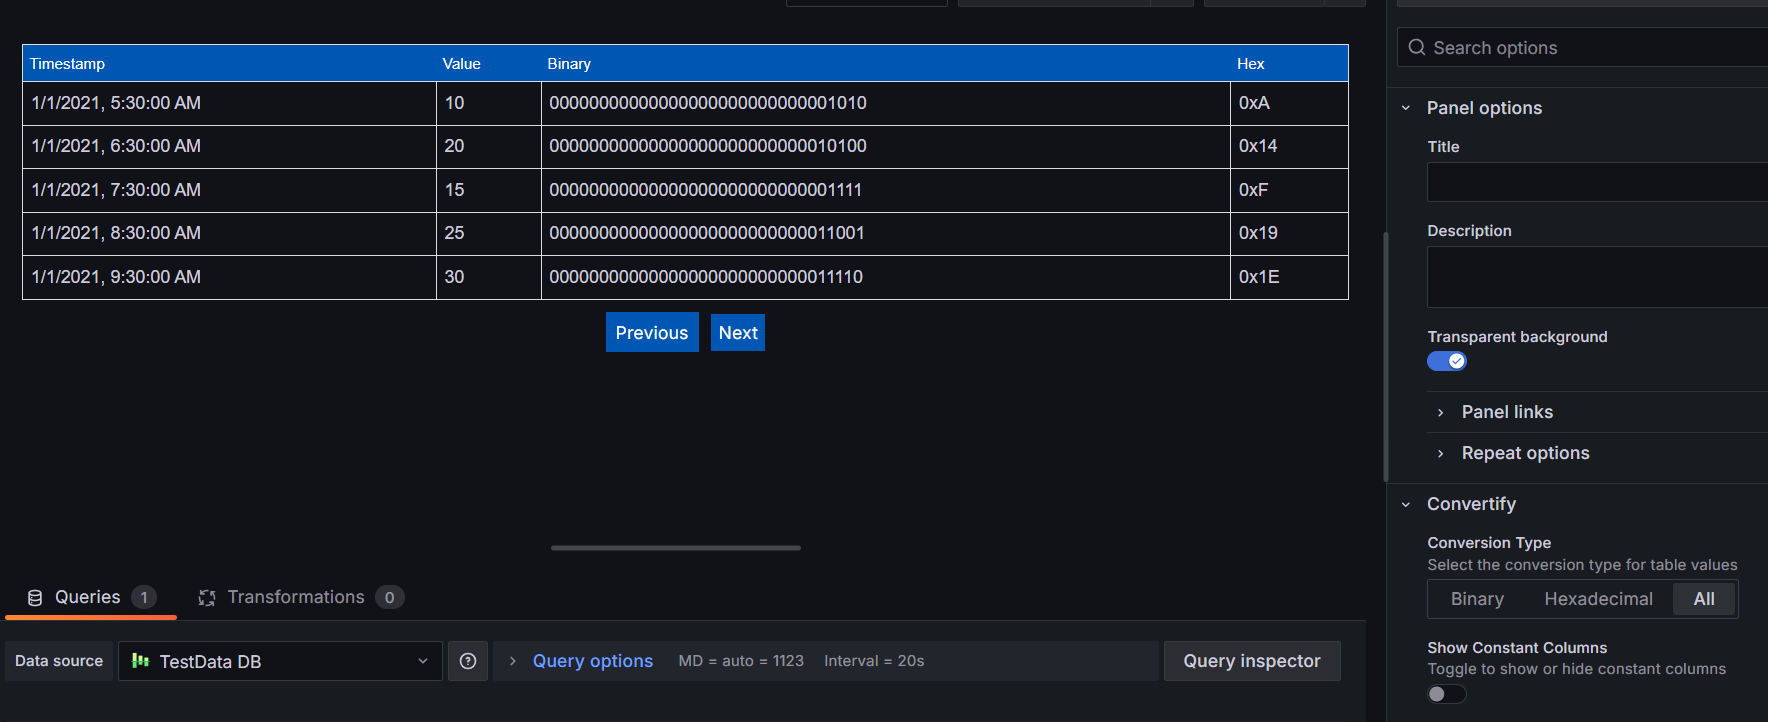
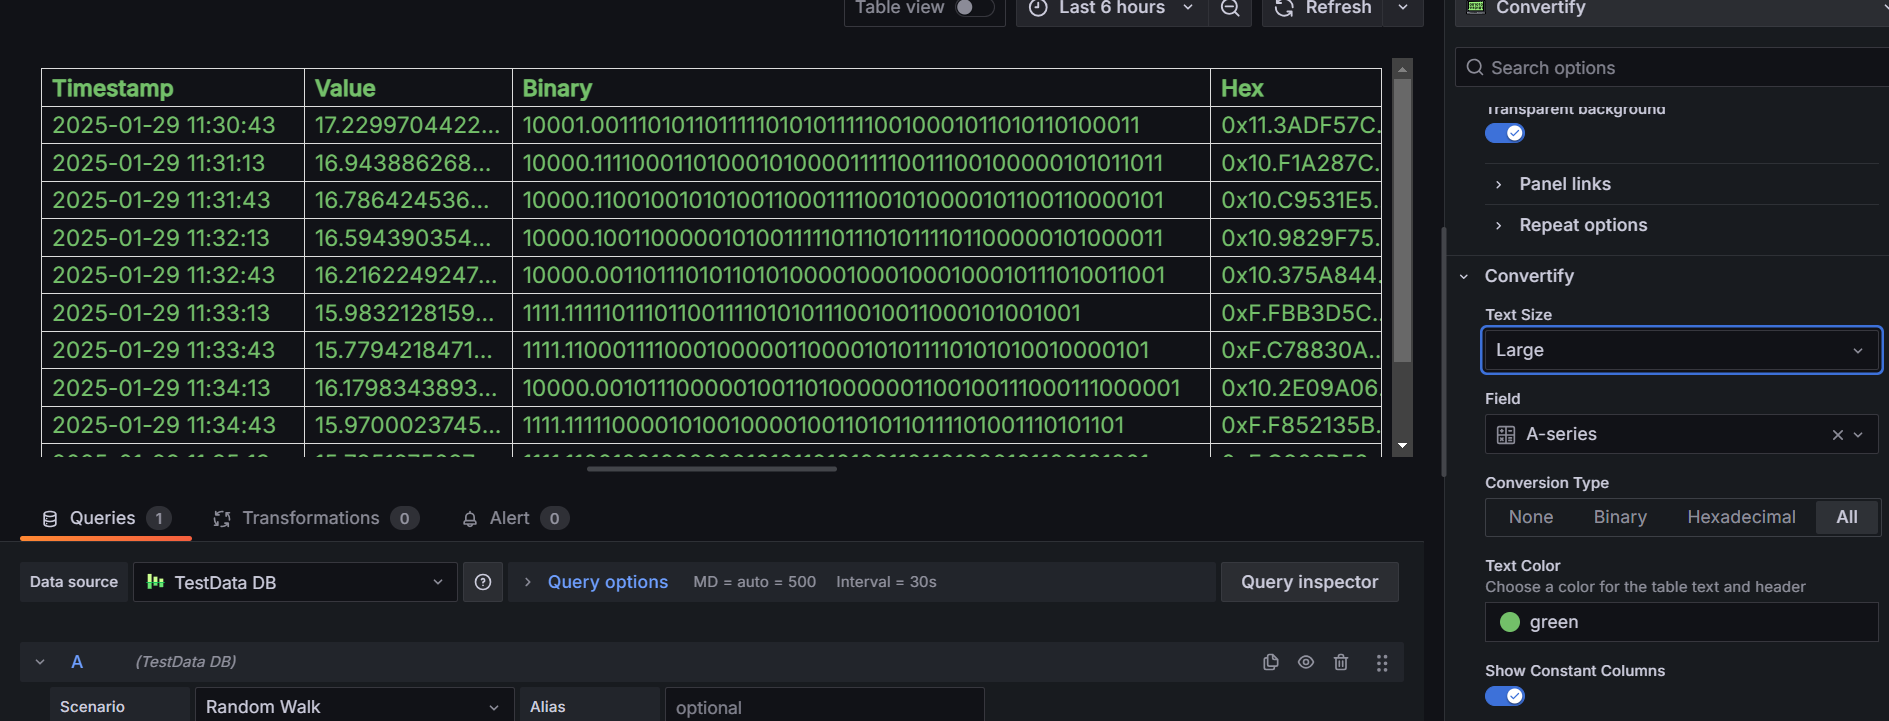
Updated files

diff --git a/src/module.ts b/src/module.ts
@@ -1,39 +1,48 @@
 import { PanelPlugin } from '@grafana/data';
-import { SimpleOptions } from './types';
 import { SimplePanel } from './components/SimplePanel';
+import { SimpleOptions } from './types';
 
 export const plugin = new PanelPlugin<SimpleOptions>(SimplePanel).setPanelOptions((builder) => {
   return builder
-    .addRadio({
-      path: 'conversionType',
-      name: 'Conversion Type',
-      description: 'Select the conversion type for table values',
-      defaultValue: 'binary',
+    .addSelect({
+      path: 'textSize',
+      name: 'Text Size',
+      defaultValue: 'medium',
       settings: {
         options: [
-          { value: 'binary', label: 'Binary' },
-          { value: 'hexadecimal', label: 'Hexadecimal' },
-          { value: 'decimal', label: 'Decimal' },
-          { value: 'all', label: 'All' },
+          { value: 'small', label: 'Small' },
+          { value: 'medium', label: 'Medium' },
+          { value: 'large', label: 'Large' },
         ],
       },
     })
-    .addBooleanSwitch({
-      path: 'enablePagination',
-      name: 'Enable Pagination',
-      description: 'Enable or disable pagination for the table',
-      defaultValue: true,
+    .addFieldNamePicker({
+      path: 'selectedField',
+      name: 'Field',
+      defaultValue: '',
     })
-    .addBooleanSwitch({
-      path: 'showConstantColumns',
-      name: 'Show Constant Columns',
-      description: 'Toggle to show or hide constant columns in the table',
-      defaultValue: true,
+    .addRadio({
+      path: 'conversionType',
+      name: 'Conversion Type',
+      defaultValue: 'all',
+      settings: {
+        options: [
+          { value: 'none', label: 'None' },
+          { value: 'binary', label: 'Binary' },
+          { value: 'hexadecimal', label: 'Hexadecimal' },
+          { value: 'all', label: 'All' },
+        ],
+      },
     })
     .addColorPicker({
       path: 'textColor',
       name: 'Text Color',
       description: 'Choose a color for the table text and header',
       defaultValue: 'white',
+    })
+    .addBooleanSwitch({
+      path: 'showConstantColumns',
+      name: 'Show Constant Columns',
+      defaultValue: true,
     });
 });

diff --git a/src/components/SimplePanel.tsx b/src/components/SimplePanel.tsx
@@ -52,6 +52,12 @@ export const SimplePanel: React.FC<Props> = ({ data, options, width, height }) =
   // Use theme.visualization.getColorByName to resolve theme colors
   const textColor = theme.visualization.getColorByName(options.textColor);
 
+  const textSizeMap = {
+    small: theme.typography.size.sm,
+    medium: theme.typography.size.md,
+    large: theme.typography.size.lg,
+  };
+
   const styles = useStyles2((theme) => ({
     container: css({
       width,
@@ -70,7 +76,7 @@ export const SimplePanel: React.FC<Props> = ({ data, options, width, height }) =
       padding: theme.spacing(1),
       backgroundColor: 'transparent',  // Transparent background
       color: textColor,  // Dynamic text color
-      fontSize: theme.typography.size.sm,
+      fontSize: textSizeMap[options.textSize],
       minWidth: '160px',
       textAlign: 'center',
     }),
@@ -78,6 +84,7 @@ export const SimplePanel: React.FC<Props> = ({ data, options, width, height }) =
       padding: theme.spacing(1),
       border: `1px solid ${textColor}`,
       color: textColor,  // Dynamic text color
+      fontSize: textSizeMap[options.textSize],
     }),
     button: css({
       padding: '5px 8px',
@@ -95,6 +102,7 @@ export const SimplePanel: React.FC<Props> = ({ data, options, width, height }) =
       '& .rdg-cell': {
         backgroundColor: 'transparent !important', // Make cell backgrounds transparent
         color: textColor,  // Dynamic text color
+        fontSize: textSizeMap[options.textSize],
       },
     }),
   }));

diff --git a/src/README.md b/src/README.md
@@ -2,25 +2,26 @@
 
 **Convertify** is a powerful panel plugin for Grafana designed to help visualize real-time data with detailed bit-level analysis. It integrates with Grafana's time-series data and transforms it into binary or hexadecimal representations. This plugin is perfect for monitoring and analyzing data with bitfield structures, such as industrial systems, IoT devices, or control systems.
 
-### Features
+## Features
 
 - **Real-time Data Visualization**: Visualizes time-series data from Grafana.
 - **Binary and Hexadecimal Conversion**: Convert numerical values into binary or hexadecimal formats.
 - **Bit-Level Representation**: Show bit-level status using predefined bitfields (e.g., Status, Stop, Emergency Stop).
-- **Column Filtering**: Apply dynamic filters to the columns and analyze data based on specific conditions.
 - **Pagination**: Data is displayed in pages, making it easy to navigate large datasets.
 - **Flexible Data Input**: Works with any time-series data with numerical values.
+- **Customizable Text Size**: Adjust text size for better readability.
+- **Dynamic Text Color**: Select text colors based on the Grafana theme.
 
-### How It Works
+## How It Works
 
-The panel works by transforming numerical values into binary or hexadecimal formats and displaying them in a table along with their corresponding bitfield values. 
+The panel works by transforming numerical values into binary or hexadecimal formats and displaying them in a table along with their corresponding bitfield values.
 
-**Key Concepts:**
+### Key Concepts:
 - **Binary Conversion**: Each numerical value is converted into a 32-bit binary representation.
 - **Hex Conversion**: The panel can also convert values into a hexadecimal format.
 - **Bitfields**: Each value is analyzed according to predefined bitfields (e.g., Status, Stop, Fault Stop), where each bit represents a specific status (set or clear).
 
-### Expected Data Format
+## Expected Data Format
 
 For the plugin to work, you need a time-series dataset that contains both time and numerical fields. Here's an example of the expected data:
 
@@ -31,33 +32,66 @@ For the plugin to work, you need a time-series dataset that contains both time a
 
 - **Time**: A field containing timestamp data (required).
 - **Value**: A numerical field representing the data to be visualized (required).
-  
-### Using the Plugin
 
-1. **Install the Plugin**: Download and install the Convertify panel from the Grafana plugin marketplace.
-2. **Add the Panel to a Dashboard**: Once installed, add the Convertify panel to your dashboard like any other panel.
-3. **Configure the Data Source**: Choose a data source that provides time-series data with numerical values.
-4. **Select Conversion Type**: Choose whether to visualize the data as binary, hexadecimal, or both.
-5. **Use Filters**: Apply filters to view data for specific bitfields.
-6. **Navigate through Pages**: Use the pagination buttons to navigate through large datasets.
+## Installation
 
-### Screenshots
+1. **Download the Plugin**: Clone the repository and install dependencies.
+   ```sh
+   git clone https://github.com/shabuddinshaik/monitorcloudops-convertify-panel.git
+   cd monitorcloudops-convertify-panel
+   yarn install
+   ```
+2. **Build the Plugin**:
+   ```sh
+   yarn build
+   ```
+3. **Deploy the Plugin**: Copy the built plugin into your Grafana plugins directory.
+   ```sh
+   cp -r dist /var/lib/grafana/plugins/convertify-panel
+   ```
+4. **Restart Grafana**:
+   ```sh
+   sudo systemctl restart grafana-server
+   ```
+5. **Enable the Plugin**: Go to Grafana settings and enable the Convertify panel.
 
-![Panel Screenshot 1] ![alt text](https://github.com/shabuddinshaik/monitorcloudops-convertify-panel/blob/main/src/img/screenshot1.png)
+## Using the Plugin
 
-![Panel Screenshot 2] ![alt text](https://github.com/shabuddinshaik/monitorcloudops-convertify-panel/blob/main/src/img/screenshot2.png)
+1. **Add the Panel to a Dashboard**: Once installed, add the Convertify panel to your dashboard like any other panel.
+2. **Configure the Data Source**: Choose a data source that provides time-series data with numerical values.
+3. **Select Conversion Type**: Choose whether to visualize the data as binary, hexadecimal, or both.
+4. **Use Filters**: Apply filters to view data for specific bitfields.
+5. **Navigate through Pages**: Use the pagination buttons to navigate through large datasets.
 
+## Configuration Options
 
-**Example Display**: The table will show the data with columns for the timestamp, value, and additional bit-level fields. 
-
-### Configuration Options
-
-- **Conversion Type**: Choose whether to display the data in binary, hexadecimal, or both formats.
+- **Text Size**: Choose between small, medium, or large text size.
+- **Field Selection**: Pick a numerical field from your dataset.
+- **Conversion Type**: Display data in binary, hexadecimal, or both formats.
+- **Text Color**: Customize text color dynamically based on Grafana's theme.
 - **Show Constant Columns**: Toggle to show or hide the bitfield columns for status monitoring.
-- **Column Filters**: Apply filters to narrow down the data based on bitfield values.
 
-### License
+## Screenshots
+
+![Panel Screenshot 1](https://github.com/shabuddinshaik/monitorcloudops-convertify-panel/blob/main/src/img/screenshot1.png)
+
+![Panel Screenshot 2](https://github.com/shabuddinshaik/monitorcloudops-convertify-panel/blob/main/src/img/screenshot2.png)
+
+## License
 
 This plugin is licensed under the MIT License. See the [LICENSE](https://github.com/shabuddinshaik/monitorcloudops-convertify-panel/blob/main/LICENSE) file for more details.
 
+## Contribution
+
+We welcome contributions! If you find a bug or have a feature request, feel free to open an issue or submit a pull request. Follow these steps to contribute:
+
+1. Fork the repository.
+2. Create a new branch (`git checkout -b feature-branch`).
+3. Make your changes and commit them (`git commit -m 'Added a new feature'`).
+4. Push to the branch (`git push origin feature-branch`).
+5. Open a pull request.
+
+---
+
+Thank you for using Convertify! 🚀 If you have any questions, feel free to reach out via GitHub issues.
 
